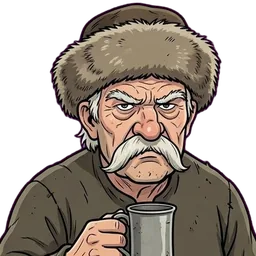
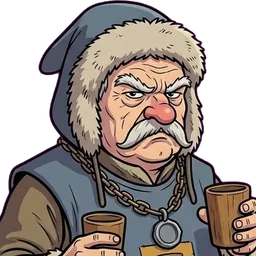
Visages médiévaux : maîtresses des bains et inspecteurs des tavernes
Fonctionnalités
- Nageuse : 4 planches de maîtresses des bains médiévales (16 visages, chemise de lin mouillée, seau, brosse, éponge, verges de bouleau ; ni vapeur, ni sifflet, ni maillot).
- Inspecteur : nouveau portrait médiéval (chaperon, tabard brodé d'une coupe, chaîne d'office à sceau de plomb, tâte-vin, registre et plume d'oie) et 3 planches dans le même esprit (10 visages retenus).

Corrections
- Inspecteurs sans insigne de police ni uniforme boutonné, képi, melon, gilet ou cravate (retour de François).

Technique
- Anciennes planches et ancien portrait archivés (variantes/ancien/, ancien/inspecteur-chapeau-melon.jpeg).
- exclus.json : nageuse remise à zéro, inspecteur [7, 8] ; descriptions.json et PROMPTS.md à jour ; croquis du carnet refait.

Vérification et déploiement
- 291 tests verts sur le PC ; un visage différent par victime active. Pas mis en ligne.

diff --git a/assets/characters/PROMPTS.md b/assets/characters/PROMPTS.md
@@ -109,7 +109,7 @@ pincé ou suffisant, qu'on n'est pas trop triste de voir disparaître, mais sans
 |---|---|---|
 | `percepteur.png` | Taxard, le percepteur | a thin balding tax collector with a long pointed nose, small round spectacles, a tall black hat with a brass badge, a stiff dark-green coat with silver buttons, holding a fat ledger and a quill, a smug little smile |
 | `cousine.png` | Ermengarde, la cousine | a middle-aged woman in an outdated, over-decorated purple travelling dress and a huge feathered hat, a lorgnette raised to one eye, greedy satisfied expression, a rolled family tree tucked under her arm |
-| `inspecteur.png` | Pinardon, l'inspecteur des tavernes | a portly inspector with a waxed curly moustache, a red nose, a brown bowler hat, a checked waistcoat, holding a wine glass up to the light with a frown, a notebook peeking from his pocket |
+| `inspecteur.png` | Pinardon, l'inspecteur des tavernes | a portly MEDIEVAL tavern inspector serving the baron (an official wine taster of the Middle Ages), with a waxed curly moustache and a red nose, a brown felt chaperon hood-hat with a hanging tail, a long ochre and slate-blue wool tabard over a brown tunic bearing a simple embroidered heraldic emblem of a wine cup, a heavy bronze chain of office with a round lead seal, holding a small silver tasting cup (tastevin) up to his nose with a judging frown, a leather-bound ledger and a goose quill under his arm; nothing modern (no badge, no buttons, no uniform, no cap, no bowler hat, no tie, no waistcoat, no pencil, no glasses) |
 | `touriste.png` | Gustave, le touriste | a cheerful sunburnt MEDIEVAL traveller with a wide straw hat, a loud striped wool tunic, a leather-bound sketchbook hanging from his neck on a cord and a stick of charcoal behind his ear, wide curious eyes, a pilgrim's satchel strap on one shoulder; nothing modern (no camera, no shirt buttons, no backpack) |
 | `huissier.png` | Saisitout, l'huissier | a stern grey-skinned goblin bailiff in a tight black suit and a stiff collar, a monocle, holding up an official parchment with a red wax seal, ears sticking out, cold satisfied expression |
 | `nageuse.png` | Ondine, la maîtresse-nageuse | a sporty MEDIEVAL bath-house mistress with short wet hair, a long loose white linen bathing shift and a linen coif, a small brass hand bell held up to call order, a cork float on a rope over one shoulder, very bossy expression; nothing modern (no stripes, no swimsuit, no whistle, no rubber ring) |
